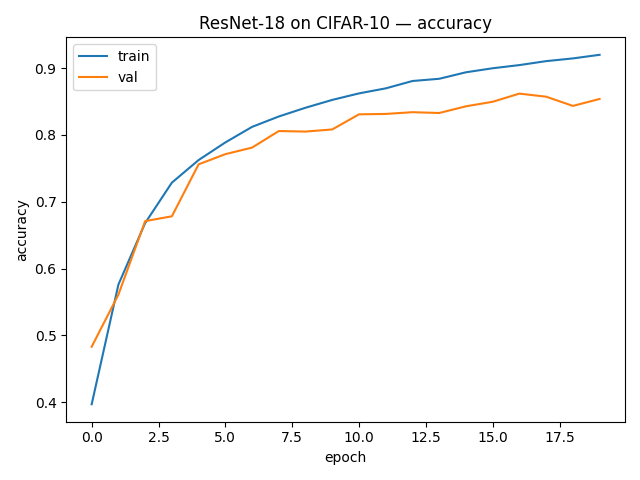
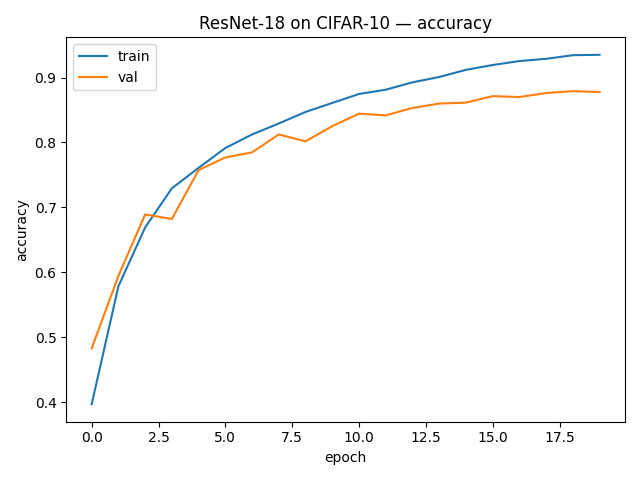
Add cosine LR scheduler results & analysis

diff --git a/vision/resnet/src/train.py b/vision/resnet/src/train.py
@@ -14,6 +14,7 @@ from common.seed import set_seed
 from common.logging import init_loggers
 from .data import get_loaders
 from .model import resnet18
+from torch.optim.lr_scheduler import CosineAnnealingLR
 
 
 def parse_args():
@@ -101,6 +102,15 @@ def main():
             weight_decay=cfg["train"]["weight_decay"],
         )
 
+        # Optional LR scheduler
+    scheduler = None
+    sched_cfg = cfg.get("scheduler", {})
+    if sched_cfg.get("name", "").lower() == "cosine":
+        t_max = sched_cfg.get("t_max", cfg["train"]["epochs"])
+        eta_min = sched_cfg.get("eta_min", 0.0)
+        scheduler = CosineAnnealingLR(opt, T_max=t_max, eta_min=eta_min)
+        print(f"Using CosineAnnealingLR: T_max={t_max}, eta_min={eta_min}")
+
     criterion = nn.CrossEntropyLoss()
     hist = {"train_loss": [], "train_acc": [], "val_loss": [], "val_acc": []}
     best_val = 0.0
@@ -168,9 +178,16 @@ def main():
         if val_acc > best_val:
             best_val = val_acc
             torch.save({"model": model.state_dict(), "cfg": cfg}, out_path)
+            # Step LR scheduler at end of epoch
+        if scheduler is not None:
+            scheduler.step()
 
         print(
             f"[epoch {epoch}] train_acc={train_acc:.3f} val_acc={val_acc:.3f} best_val={best_val:.3f}"
+        )
+        current_lr = opt.param_groups[0]["lr"]
+        print(
+            f"[epoch {epoch}] lr={current_lr:.6f} train_acc={train_acc:.3f} val_acc={val_acc:.3f} best_val={best_val:.3f}"
         )
 
     out_dir = Path("outputs")

diff --git a/vision/resnet/README.md b/vision/resnet/README.md
@@ -131,6 +131,40 @@ This gives a strong “experiment + interpretation” section you can talk about
 - This highlights a core deep-learning principle:  
   **“SGD requires proper learning-rate tuning — LR matters more than the optimizer choice.”**
 
+### SGD + Cosine Annealing LR (CIFAR-10, 20 epochs)
+
+This experiment uses the best performing SGD setup from the LR sweep (`lr = 0.01`)
+and adds a cosine annealing learning-rate schedule.
+
+**Config summary**
+- Optimizer: SGD + momentum
+- Initial LR: 0.01
+- Weight decay: 5e-4
+- Scheduler: CosineAnnealingLR
+- T_max: 20, eta_min: 1e-4
+
+**Final run:**
+
+
+### Observations
+
+- Cosine annealing produced **the highest validation accuracy** among all experiments so far (`best_val = 0.879`).
+- Compared to fixed LR = 0.01 (best_val = 0.862), cosine LR improves stability late in training and allows the model to converge to a better minimum.
+- The LR schedule begins with a high learning rate for exploration, then gradually decays to `1e-4`, enabling fine-grained optimization near convergence.
+- This matches results from modern training pipelines (e.g., ImageNet training of ResNet, ViTs, CLIP), where cosine LR is a strong default and often outperforms fixed schedules.
+
+### Comparison of Best Validation Accuracies
+
+| Experiment                 | Best Val Acc |
+|----------------------------|--------------|
+| SGD, LR=0.10               | 0.824        |
+| SGD, LR=0.05               | 0.858        |
+| SGD, LR=0.01               | 0.862        |
+| Adam (wd=5e-4)             | 0.859        |
+| Adam (wd=0)                | 0.894        |
+| Adam (wd=1e-4)             | 0.882        |
+| **SGD + Cosine LR (0.01)** | **0.879**    |
+
 
 ## Training Curves
 
